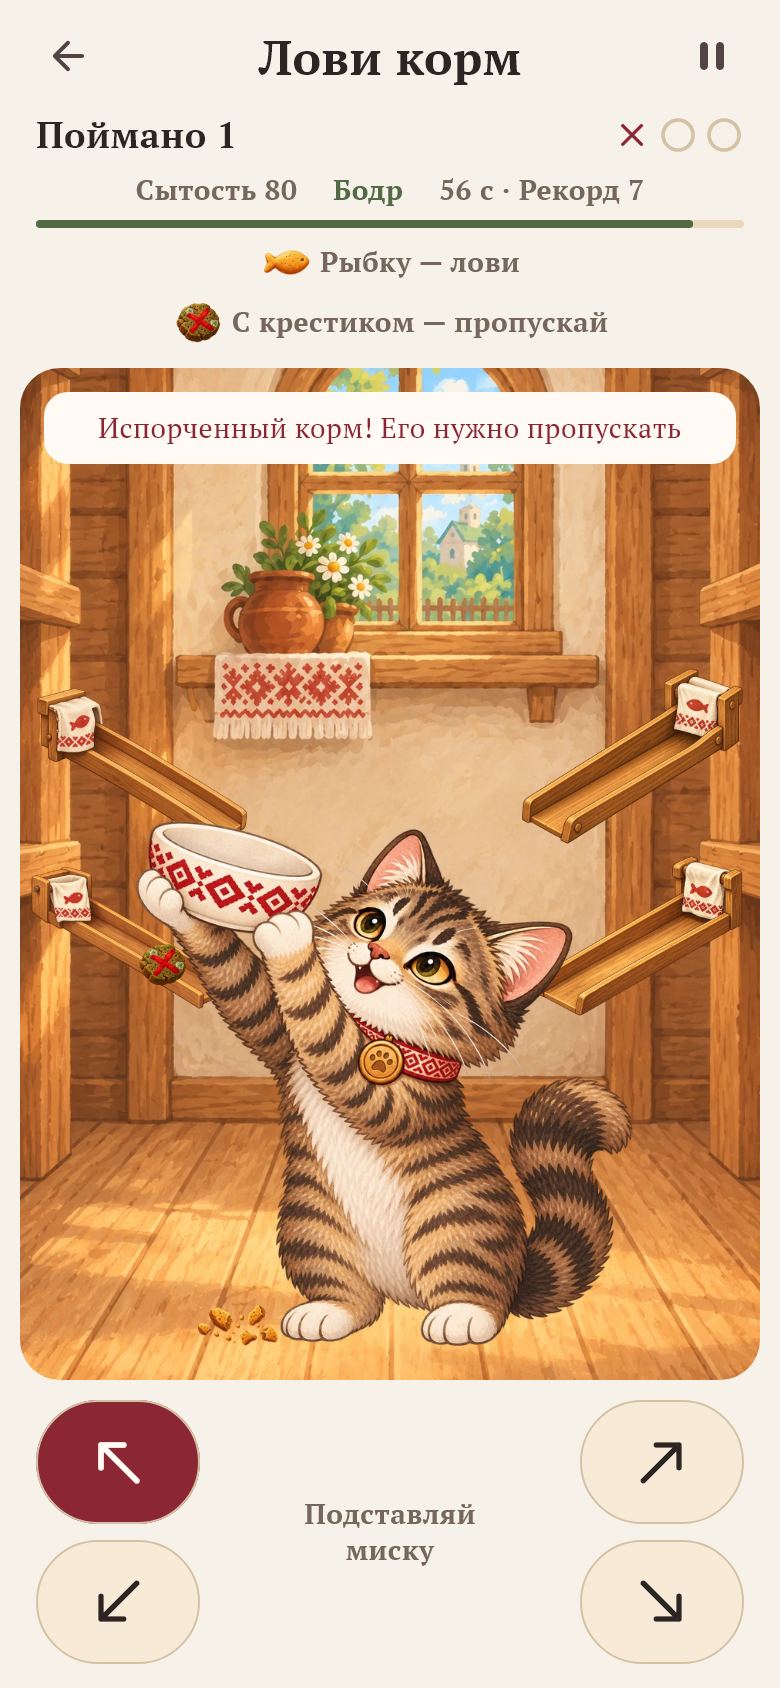
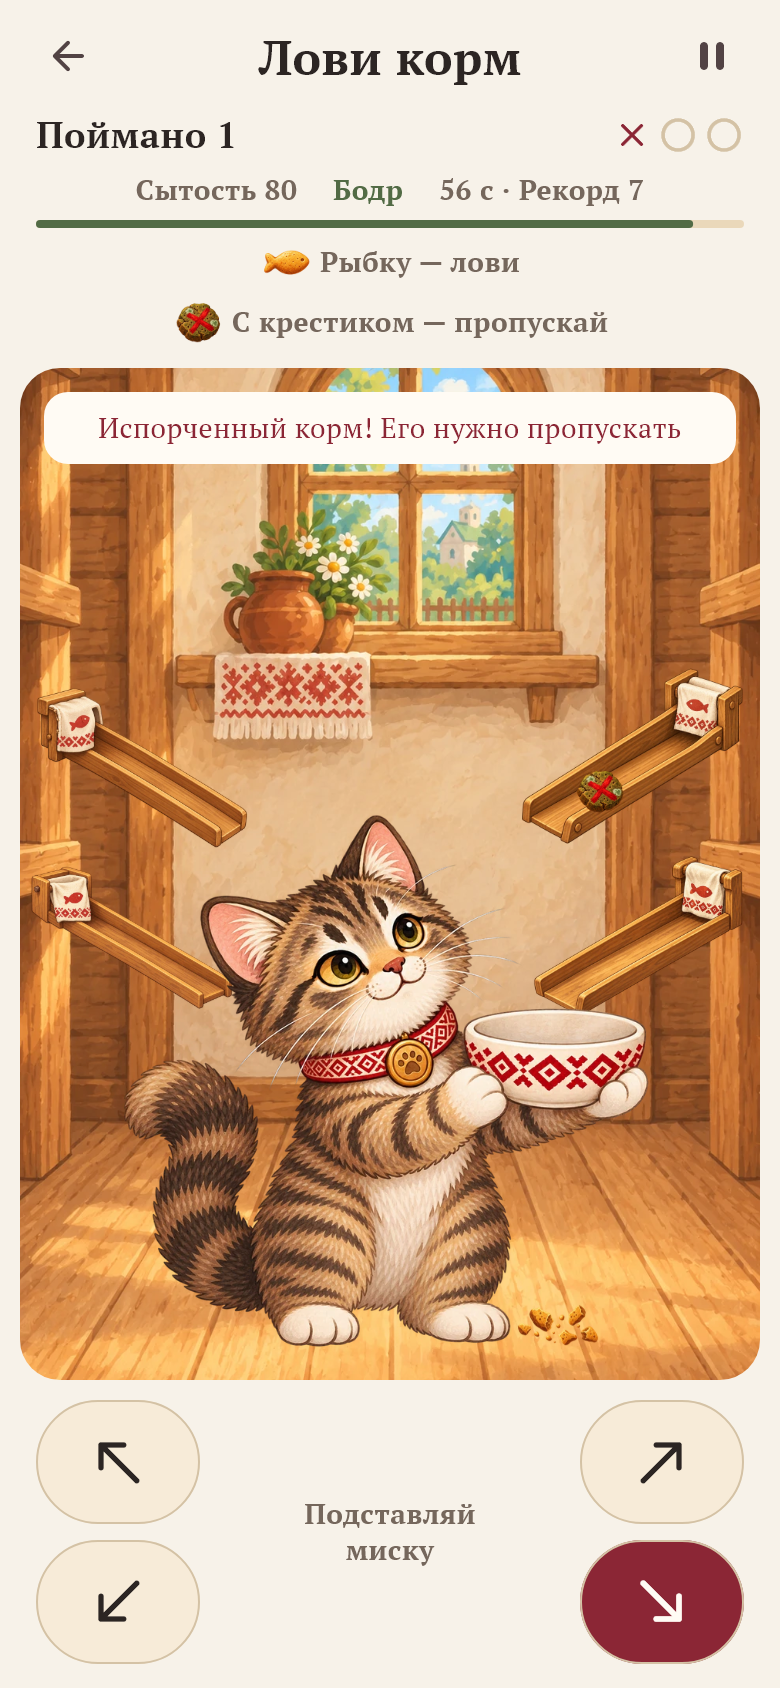
docs(catch-food): record all-coat validation on current main

diff --git a/art/minigames/catch_food/preview.html b/art/minigames/catch_food/preview.html
@@ -1,5 +1,5 @@
 <!doctype html>
-<html lang="ru"><head><meta charset="utf-8"><meta name="viewport" content="width=device-width,initial-scale=1"><title>Лови корм — комплект графики v1</title><style>
+<html lang="ru"><head><meta charset="utf-8"><meta name="viewport" content="width=device-width,initial-scale=1"><title>Лови корм — комплект графики v2</title><style>
 :root{color-scheme:light;--paper:#f7f2e9;--ink:#2c2523;--line:#d4c2a5;--crimson:#8b2635;--alpha:#e8ddcc}
 *{box-sizing:border-box}body{margin:0;background:var(--paper);color:var(--ink);font:17px/1.5 Georgia,"Times New Roman",serif}main{max-width:1440px;padding:48px 28px 80px;margin:auto}header{max-width:920px;margin-bottom:28px}h1{font-size:clamp(34px,5vw,60px);line-height:1.1;margin:0 0 18px}h2{font-size:28px;margin:52px 0 18px}p{color:#75675c;margin:12px 0}.eyebrow{color:var(--crimson);font:700 13px/1.5 system-ui;letter-spacing:.1em;text-transform:uppercase;margin-bottom:12px}a{color:var(--crimson);text-underline-offset:3px}.toolbar{display:flex;gap:10px;flex-wrap:wrap;align-items:center;margin:24px 0}button{cursor:pointer;border:1px solid var(--line);border-radius:24px;padding:10px 16px;background:#fffbf4;color:var(--ink);font:inherit}button[aria-pressed="true"]{background:var(--crimson);color:#fffaf1;border-color:var(--crimson)}.grid{display:grid;grid-template-columns:repeat(auto-fit,minmax(240px,1fr));gap:20px}.card{border:1px solid var(--line);border-radius:18px;background:#fffbf4;overflow:hidden}.image{display:flex;align-items:center;justify-content:center;aspect-ratio:1;padding:12px;text-decoration:none}.image.alpha{background-color:var(--alpha);background-image:linear-gradient(45deg,#ffffff50 25%,transparent 25%),linear-gradient(-45deg,#ffffff50 25%,transparent 25%),linear-gradient(45deg,transparent 75%,#ffffff50 75%),linear-gradient(-45deg,transparent 75%,#ffffff50 75%);background-size:24px 24px;background-position:0 0,0 12px,12px -12px,-12px 0}.image.scene{background:#ead8ba;aspect-ratio:4/3;padding:0}.image.scene img{width:100%;height:100%;object-fit:contain}.image img{display:block;width:100%;height:100%;object-fit:contain;transition:transform .2s}.image:hover img{transform:scale(1.03)}.caption{padding:16px 18px}.caption strong{display:block;font-size:18px}.caption a{display:block;overflow-wrap:anywhere;font:12px/1.5 system-ui;margin-top:7px}.note{padding:18px 22px;border-left:3px solid var(--crimson);background:#f0e6d5;border-radius:0 12px 12px 0;font-size:16px}footer{border-top:1px solid var(--line);margin-top:48px;padding-top:24px;color:#75675c;font-size:14px}@media(prefers-reduced-motion:reduce){.image img{transition:none}}@media(max-width:600px){main{padding:28px 16px 50px}.grid{grid-template-columns:repeat(2,minmax(0,1fr));gap:12px}.caption{padding:12px}.caption strong{font-size:15px}.caption a{font-size:10px}.image{padding:6px}h2{font-size:24px}}
 </style></head><body><main>

diff --git a/docs/minigames/catch-food/README.md b/docs/minigames/catch-food/README.md
@@ -1,6 +1,6 @@
 # «Лови корм»
 
-Рабочая копия: `andromeda-catch-food`. Ветка: `codex/catch-food-game`, база реализации `d196074`. По запросу пользователя изменения подготовлены для отдельной ветки GitHub; `main` не изменяется.
+Рабочая копия: `andromeda-catch-food`. Ветка расцветок: `codex/catch-food-all-coats`, база `06f48c5` из актуальной `main`. Исходная мини-игра уже включена в `main` через PR #8. По запросу пользователя изменения подготовлены для отдельной ветки GitHub; `main` не изменяется.
 
 ## Как открыть
 
@@ -21,7 +21,7 @@
 - Недостаточная сытость, отсутствие связи, повтор старта и повтор сохранения обрабатываются в интерфейсе.
 - Домик обновляет состояние питомца после возврата.
 - Точки окончания траекторий привязаны к координатам мисок в четырёх рисунках; задние лапы выровнены по общей опоре.
-- 34 WebP: общий комплект и по восемь спрайтов для каждой из трёх расцветок. Исходные PNG, референсы, промпты и манифест включены в `art/minigames/catch_food/`. Экспорт повторяется командой `python tools/export_catch_food_assets.py` с Pillow.
+- 34 WebP (3 758 770 байт, ~3,58 МиБ): общий комплект и по восемь спрайтов для каждой из трёх расцветок. Исходные PNG, референсы, промпты и манифест включены в `art/minigames/catch_food/`. Экспорт повторяется командой `python tools/export_catch_food_assets.py` с Pillow.
 - Кот в карточке входа, инструкции, всех четырёх игровых положениях и на результате соответствует `pet.fur_option_id`, который уже передаёт существующий API. Неизвестное или отсутствующее значение использует полосатого кота.
 - Предзагружаются только восемь изображений выбранной расцветки и общие элементы. Если расцветка изменилась между открытием и стартом, новый комплект загружается перед запуском таймера.
 
@@ -58,7 +58,7 @@
 
 ## Локальная проверка
 
-Результаты: 44/44 проверки мини-игры и затронутого домика; анализ Flutter без замечаний; backend собран, 47 тестов пройдены и 9 интеграционных пропущены без отдельной БД; debug APK собран. Полный отчёт — [verification.json](verification.json).
+Проверка 19 октября 2026: 57/57 тестов мини-игры, ассетов и затронутого домика; анализ Flutter без замечаний; debug APK собран. В доработке расцветок backend не менялся. Его предыдущая проверка 17 октября: сборка успешна, 47 тестов пройдены и 9 интеграционных пропущены без отдельной БД. Полный отчёт — [verification.json](verification.json).
 
 ```powershell
 flutter analyze --no-pub
@@ -86,3 +86,9 @@ flutter test --no-pub --dart-define=CATCH_FOOD_CAPTURE=true test/catch_food_scre
 - `quest_map_test.dart`: `an advanced child gets the hard Goldfish level`.
 
 Оба сценария получают `Invalid image data` из существующего `assets/games/goldfish/goldfish.webp`: файл пустой (0 байт) и одинаков в исходной и новой рабочей копии. Изображение и код «Золотой рыбки» не менялись этой задачей. Новая мини-игра, затронутые сценарии домика и Android-сборка проходят проверку.
+
+## Все расцветки — 19 октября 2026
+
+Добавлены 16 исходных PNG через встроенный ImageGen: для рыжего и белого кота по четыре позиции ловли и четыре реакции (ожидание, радость, промах, усталость). Вместе с полосатым — 24 спрайта кота. Новые WebP добавляют 2 043 220 байт (~1,95 МиБ). Красный ошейник общий, состояние аксессуаров в профиле не меняется.
+
+Каталог сравнения: [coats.html](../../../art/minigames/catch_food/coats.html). Он показывает файлы приложения и даёт ссылки на исходные PNG и точные промпты. Проверки PNG — в `art/minigames/catch_food/validation.json`, сравнение силуэтов и ссылок каталога — в `coats-validation.json`. PNG не перекрашивались кодом; WebP-экспорт только уменьшает размер и сохраняет alpha.
